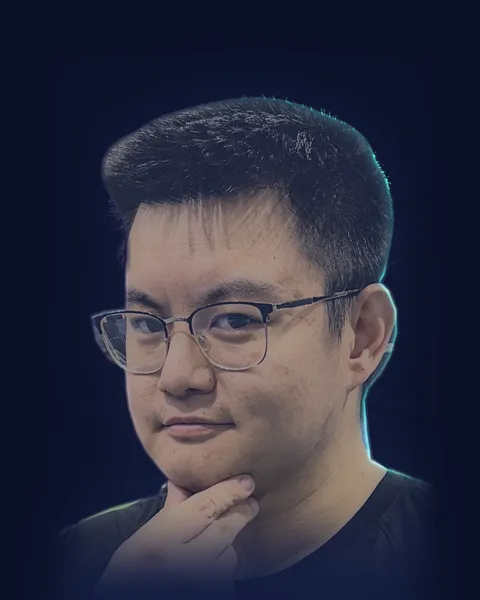
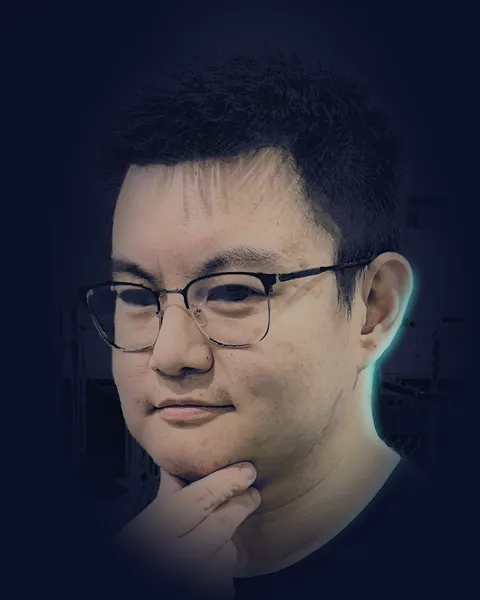
Contact portrait: graded whole, no cut-out; one Still type (#84)
The portrait read as a cut-out: the hand-traced matte flattened the top
of his hair, gave the left lens and cheek a hard edge and left a pale
halo. scripts/portrait.mjs now keeps the photo whole and grades the night
into it: lit greys sink by half (the wall stays a wall, his hair dark
against it), the floor's white, the court's blue, the turf's green and
the scoreboard's glow drain away, shadows are tinted indigo without
being lifted, the forehead shine is still tamed, and a wide, feathered
elliptical vignette on his head and shoulders lets the edges fall into
the night. The rim is cyan only (the violet one is gone), drawn along
his skin's outermost right edge, brightest at the ear and jaw and fading
down the neck. The three WebP widths are regenerated (4 to 26 KB).

HANDOFF: Visual direction now scopes "no photographs" to the world and
points at the Contact portrait as the one photograph; the scripts note
describes the new grade.

One Still type ({ src, width, height }) and one srcSet helper in
src/content/site.ts, used by the Contact portrait and the night
backdrop. Each still carries its height, computed once (stillsOf) from
its image's shape, so the component, the unit test, the script and the
e2e read it instead of redoing the 4:5 arithmetic. The backdrop test now
checks each still's full size.

sharp is declared in devDependencies (0.35.4, as installed), since
site.test.ts and the stills scripts import it.
[…]

Changed region(s): [[0.1562, 0.15, 0.875, 1.0], [0.6875, 0.3, 0.7188, 0.33], [0.1562, 0.48, 0.1875, 0.51]]

diff --git a/src/content/site.ts b/src/content/site.ts
@@ -26,6 +26,30 @@ export type Image = {
   alt: string;
 };
 
+/** An image drawn once by a script at one fixed width, and served as is. */
+export type Still = { src: string; width: number; height: number };
+
+/**
+ * Stills of one image at fixed widths, all in one shape (`frame`, any
+ * width and height in proportion), each with its height to the pixel.
+ */
+function stillsOf(
+  widths: readonly number[],
+  frame: { width: number; height: number },
+  src: (width: number) => string,
+): Still[] {
+  return widths.map((width) => ({
+    src: src(width),
+    width,
+    height: Math.round((width * frame.height) / frame.width),
+  }));
+}
+
+/** A srcset for stills of one image at fixed widths. */
+export function srcSet(stills: readonly Still[]): string {
+  return stills.map((s) => `${s.src} ${s.width}w`).join(", ");
+}
+
 export type Recording = {
   /** Accessible name for the video. */
   label: string;
@@ -629,12 +653,11 @@ export const contact = {
    */
   portrait: {
     alt: "Adrian Luk",
-    width: 4,
-    height: 5,
-    stills: [240, 480, 720].map((width) => ({
-      src: `/contact/adrian-luk-${width}.webp`,
-      width,
-    })),
+    stills: stillsOf(
+      [240, 480, 720],
+      { width: 4, height: 5 },
+      (width) => `/contact/adrian-luk-${width}.webp`,
+    ),
   },
   /**
    * How the site itself is built: each fact one the public repo bears out,
@@ -661,12 +684,7 @@ export const contact = {
   lead: string;
   resume: { label: string; href: string };
   channels: readonly ContactChannel[];
-  portrait: {
-    alt: string;
-    width: number;
-    height: number;
-    stills: readonly { src: string; width: number }[];
-  };
+  portrait: { alt: string; stills: readonly Still[] };
   built: {
     heading: string;
     lead: string;
@@ -795,17 +813,19 @@ export const shareCards = {
 /**
  * The quieter world behind every route but home: stills of the valley, drawn
  * by scripts/share-stills.mjs, landscape up to a 4K screen and portrait for
- * phones and tablets.
+ * phones and tablets, each in the shape of the screen it is shot at.
  */
 export const backdrop = {
-  landscape: [1280, 1920, 2560, 3840].map((width) => ({
-    src: `/world/backdrop-${width}.webp`,
-    width,
-  })),
-  portrait: [645, 1290, 2048].map((width) => ({
-    src: `/world/backdrop-portrait-${width}.webp`,
-    width,
-  })),
+  landscape: stillsOf(
+    [1280, 1920, 2560, 3840],
+    { width: 2560, height: 1440 },
+    (width) => `/world/backdrop-${width}.webp`,
+  ),
+  portrait: stillsOf(
+    [645, 1290, 2048],
+    { width: 1366, height: 2960 },
+    (width) => `/world/backdrop-portrait-${width}.webp`,
+  ),
 } as const;
 
 /** The id of a Highlight's panel on the home page, and its in-page anchor. */

diff --git a/src/content/site.test.ts b/src/content/site.test.ts
@@ -262,6 +262,17 @@ describe("Juice Bros Case study", () => {
   });
 });
 
+describe("stills", () => {
+  it("list their widths as a srcset, smallest first as given", () => {
+    expect(
+      site.srcSet([
+        { src: "/a/still-240.webp", width: 240, height: 300 },
+        { src: "/a/still-480.webp", width: 480, height: 600 },
+      ]),
+    ).toBe("/a/still-240.webp 240w, /a/still-480.webp 480w");
+  });
+});
+
 describe("Contact portrait", () => {
   const { portrait } = site.contact;
 
@@ -280,7 +291,15 @@ describe("Contact portrait", () => {
     expect(widths).toEqual([...widths].sort((a, b) => a - b));
   });
 
-  it("ships every still at the size it declares, all one shape, so nothing shifts", async () => {
+  it("declares each still's height, all in the portrait's 4:5", () => {
+    expect(portrait.stills.map(({ width, height }) => ({ width, height }))).toEqual([
+      { width: 240, height: 300 },
+      { width: 480, height: 600 },
+      { width: 720, height: 900 },
+    ]);
+  });
+
+  it("ships every still at the size it declares, so nothing shifts", async () => {
     for (const still of portrait.stills) {
       const file = path.join("public", still.src);
       expect(existsSync(file), still.src).toBe(true);
@@ -288,7 +307,7 @@ describe("Contact portrait", () => {
       expect(format).toBe("webp");
       expect({ width, height }, still.src).toEqual({
         width: still.width,
-        height: (still.width * portrait.height) / portrait.width,
+        height: still.height,
       });
     }
   });

diff --git a/src/components/contact-portrait.tsx b/src/components/contact-portrait.tsx
@@ -1,4 +1,4 @@
-import { contact } from "@/content/site";
+import { contact, srcSet } from "@/content/site";
 import { PanelCorners } from "./highlight-panel";
 
 const { portrait } = contact;
@@ -22,10 +22,10 @@ export function ContactPortrait({ className = "" }: { className?: string }) {
         {/* eslint-disable-next-line @next/next/no-img-element -- fixed stills, as above */}
         <img
           src={portrait.stills[1].src}
-          srcSet={portrait.stills.map((s) => `${s.src} ${s.width}w`).join(", ")}
+          srcSet={srcSet(portrait.stills)}
           sizes="(min-width: 48rem) 13rem, 10rem"
           width={largest.width}
-          height={(largest.width * portrait.height) / portrait.width}
+          height={largest.height}
           alt={portrait.alt}
           loading="lazy"
           decoding="async"

diff --git a/e2e/home.spec.ts b/e2e/home.spec.ts
@@ -258,10 +258,9 @@ test.describe("Adrian's portrait in the outpost", () => {
     const photo = page.locator("#contact").getByRole("img", { name: portrait.alt });
     await expect(photo).toBeVisible();
     // Its box is reserved from the markup, so loading it shifts nothing.
-    const width = Number(await photo.getAttribute("width"));
-    const height = Number(await photo.getAttribute("height"));
-    expect(width).toBeGreaterThan(0);
-    expect(height / width).toBe(portrait.height / portrait.width);
+    const largest = portrait.stills[portrait.stills.length - 1];
+    await expect(photo).toHaveAttribute("width", String(largest.width));
+    await expect(photo).toHaveAttribute("height", String(largest.height));
     for (const still of portrait.stills) {
       await expect(photo).toHaveAttribute(
         "srcset",

diff --git a/src/app/share.test.ts b/src/app/share.test.ts
@@ -113,7 +113,10 @@ describe("link previews", () => {
 describe("the night backdrop", () => {
   it("has landscape stills up to 3840 wide (2560 at 1.5x, a 4K TV at 1x) and portrait ones for phones and tablets", () => {
     for (const still of [...backdrop.landscape, ...backdrop.portrait]) {
-      expect(webpSize(publicFile(still.src)).width, still.src).toBe(still.width);
+      expect(webpSize(publicFile(still.src)), still.src).toEqual({
+        width: still.width,
+        height: still.height,
+      });
     }
     const landscape = backdrop.landscape.map((s) => webpSize(publicFile(s.src)));
     expect(Math.max(...landscape.map((s) => s.width))).toBeGreaterThanOrEqual(3840);

diff --git a/src/components/world-backdrop.tsx b/src/components/world-backdrop.tsx
@@ -1,8 +1,5 @@
 import type { CSSProperties } from "react";
-import { backdrop } from "@/content/site";
-
-const srcSet = (stills: readonly { src: string; width: number }[]) =>
-  stills.map((s) => `${s.src} ${s.width}w`).join(", ");
+import { backdrop, srcSet } from "@/content/site";
 
 /** A small seeded generator (mulberry32), so every render scatters the same. */
 function seeded(seed: number) {

diff --git a/docs/HANDOFF.md b/docs/HANDOFF.md
@@ -26,7 +26,7 @@ The source of truth for the site's scope, decisions and content-accuracy rules. 
 - **Experience:** the Resume page lists every Role with bullets taken from the verified bullet versions, plus a "Download PDF" button. The home page has one line linking to it, and each Highlight and Case study links to its Role or Side project there. Whenever the PDF changes, update the page to match.
 - **Contact:** a `mailto:` link to the Gmail address, LinkedIn (linkedin.com/in/adrian-luk) and GitHub (github.com/AdrianLuk). No email at the domain and no contact form. Adrian's photo stands beside the lead and channels (above them on a phone), cropped to head and shoulders and graded into the night palette on a holographic panel (decided 2026-10-08, issue #84); it is the site's only photograph, and appears nowhere else. The contact section ends with "How this site is built" (decided 2026-10-08): a lead line, at most five facts the public repo bears out, and a link to its source, above the closing bookend, which stays the last word. Every page's footer links the source too. A fact goes there only if the repo shows it; change the copy when the build changes.
 - **Domain:** adrianluk.com.
-- **Visual direction:** a luminous night world, techy and cyberpunk-esque (light-structures and holographic panels on a night terrain; no flora required), with a cinematic fly-in that settles on the name. Avatar is the reference for a camera flying into a world, never the source: no Na'vi, no named Pandora places or creatures. Built procedurally in WebGL (Three.js), with no photographs or supplied imagery. The full direction contract and motion plan live in the surface brief (`.impeccable/surfaces/src-app-page-tsx.md`).
+- **Visual direction:** a luminous night world, techy and cyberpunk-esque (light-structures and holographic panels on a night terrain; no flora required), with a cinematic fly-in that settles on the name. Avatar is the reference for a camera flying into a world, never the source: no Na'vi, no named Pandora places or creatures. The world is built procedurally in WebGL (Three.js), with no photographs or supplied imagery; the site's one photograph is Adrian's portrait in the contact section (see Contact). The full direction contract and motion plan live in the surface brief (`.impeccable/surfaces/src-app-page-tsx.md`).
   - Palette: indigo sky #0B1026 to #121B3A, fog #1E2B5C, cyan #3DF2E6, violet #9B6CFF, spore pink #FF6FD8, ember #FFB347 for the primary action only, text #EAF2FF. Type: Anybody (display, variable width) and Hanken Grotesk (body). It deliberately doesn't match Juice Bros.
   - The towers along the valley are a city: tall, wide, windowed buildings, each kept under the ridge behind it so the mountains crest above the general skyline (from the hero; past the fog's reach that rule lapses). The two gates stay slim light masts.
   - Each lit site is a landmark for its Highlight's Project, built from light, recognisable by its silhouette, and carrying the site's light where the scroll route frames it: Control D's shielded gate (a ring gate under a dome of hex cells that shimmers, the light its apex), Life House's hotel (a château, after the Royal York's shape but never named: a tower between two wings under steep copper roofs, a neon HOTEL sign and a covered drop-off, the light on its finial), Juice Bros' pickleball court (to scale, lit by low floodlights, the light a ball over the net, which alone rises over the ridge, where the hero looks straight down the valley) and BT Cup's open stadium bowl (the light in the cup of a hologram trophy that turns over the pitch). The trophy's turn and the shield's shimmer are the landmarks' only motion, and both hold still under reduced motion.
@@ -58,7 +58,7 @@ The source of truth for the site's scope, decisions and content-accuracy rules. 
 - Accessibility bar: axe-clean, keyboard navigable, visible focus.
 - No Lighthouse CI: it was removed on 2026-10-07, as it took about 10 minutes of every CI run to guard load speed, which the site now trades for motion. Accessibility is still gated by axe in `e2e/a11y.spec.ts`; layout shift is no longer checked automatically. Three.js and GSAP load after the first paint: the hero imports only `src/components/world/rigs.ts` and `src/components/lit-sites.ts` (plain data; the Lit sites read `@/content/site`) up front, the Resume page's Outpost and the Rally game's court load Three.js only once their first contentful paint is in, and `e2e/performance.spec.ts` fails on any of these pages if a library is asked for before it. The Rally game's code loads only on `/play`; `e2e/play.spec.ts` fails if home asks for it, or the Case study does, even with their links to `/play` on screen (both opt out of prefetching for that reason).
 - The link previews (`public/share/`) and the night backdrop behind every route but home (`public/world/`; on the Resume page it is the first paint and the fallback under the Outpost's live world) are stills of the world, photographed by `scripts/share-stills.mjs` against the production build. Re-run it whenever the world or a share card changes.
-- The Contact section's portrait (`public/contact/`) is graded from `src/assets/adrian-luk.jpg` by `scripts/portrait.mjs` (sharp: a hand-traced matte, the night grade and the rim light), at the fixed widths in `contact.portrait`. The source photo itself is never served. Re-run it whenever the photo or the grade changes.
+- The Contact section's portrait (`public/contact/`) is graded from `src/assets/adrian-luk.jpg` by `scripts/portrait.mjs` (sharp: nothing cut out, just the night grade, a wide feathered vignette and a cyan rim light), at the fixed sizes in `contact.portrait`. The source photo itself is never served. Re-run it whenever the photo or the grade changes.
 - **One world, and transits through it.** Home and the Resume page share one world: one canvas and one compiled scene kept for the whole visit (`src/components/world-host.ts`). Each page claims it with a canvas of its own, which the world's canvas stands in for, before the page paints; other pages park it behind their still backdrop. A navigation between home and the Resume page (a link, or Back and Forward) is a transit: the camera flies instead of crossfading (`src/components/world-transits.ts`, started from `onRouterTransitionStart` in `src/instrumentation-client.ts`, which also tags the navigation with `TRANSIT_TRANSITION_TYPE` from `src/components/world-places.ts` so the layout's `<ViewTransition>` skips its crossfade). "Flight" alone means the opening. Whether a navigation is a transit is decided from the page the router last committed to, so a navigation that never arrives changes nothing. The transit leaves from wherever the camera is: along the scroll route, at the Outpost, partway through another transit (a newer navigation retargets it from there), or inside the opening, which it finishes along the opening's own path, quickened, before taking the route, so the camera never jumps. It runs along the scroll route (`src/components/world/transit.ts`), the whole trip capped at `TRANSIT_MAX_SECONDS`. The new page renders at once under it. While the camera flies, the world's root (`<main data-world-root>`) carries `data-transit`; while the destination's copy waits for it, `data-arriving`, which hides that copy (`arrivesAtOutpost` in `src/app/styles.ts`, the hero's own on home) with `visibility: hidden`, so it is out of reach of focus and screen readers, and lets it fade in as the camera lands, or after `TRANSIT_MAX_SECONDS` from the navigation's start, whichever comes first (the camera itself may land later if the page is slow to arrive). Focus after the navigation is the router's, as on any other page. Home reached this way lands settled, without the opening. Deliberately, a transit home lands at the stop home's own scroll puts the camera at (an anchor such as `/#work` or `/#contact`, or a restored scroll position), not at the settled view: landing at the settled view with the page scrolled would jump the camera along the route on the first scroll. Under reduced motion (read at each navigation), without WebGL, or with the GPU context lost, nothing flies: the swap is instant, or a crossfade over the still.
 - Search: `src/app/sitemap.ts` lists every route that has a link preview (`shareCards`), `src/app/robots.ts` lets every crawler in and points at it, and each route names itself as its canonical URL (the 404 names none). `www.adrianluk.com` redirects permanently to the bare domain (`next.config.ts`). Home carries WebSite and Person JSON-LD (`src/app/structured-data.ts`), built from the site's own copy, so it never claims more than the page does. The Resume page carries the same Person (one `@id`), with every Role under `alumniOf` as an `OrganizationRole`: titles, employers and ISO dates, no bullets. A new route needs a share card to be in the sitemap. `/llms.txt` is served too (`src/app/llms.txt/route.ts`), built at build time from the content module (`src/app/llms-txt.ts`), and robots stays allow-all on purpose, so AI crawlers are welcome.
 - Past a 1920px screen the root font size grows at half the viewport's rate (24px at 3840 wide), so the hero's name and copy hold the frame on large monitors and TVs.
